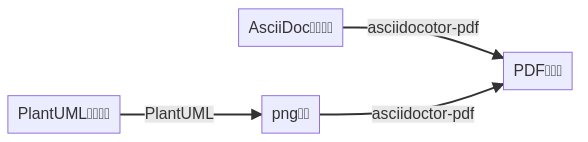
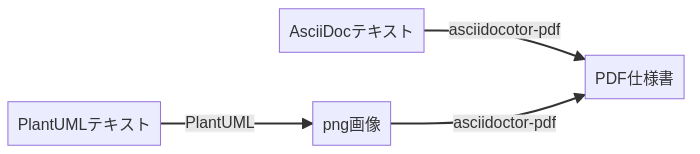
deploy: 76e21add7bd3434a00dd2d1d4cb63d3994903524

diff --git a/index.html b/index.html
@@ -462,7 +462,7 @@ body.book #toc,body.book #preamble,body.book h1.sect0,body.book .sect1>h2{page-b
 </div>
 <div class="imageblock">
 <div class="content">
-<img src="./images/diag-12df20a125ca961f6991ce59ac2e5659.png" alt="Diagram" width="588" height="142">
+<img src="./images/diag-12df20a125ca961f6991ce59ac2e5659.png" alt="Diagram" width="700" height="154">
 </div>
 <div class="title">Figure 1. mermaidの例</div>
 </div>
@@ -480,7 +480,7 @@ body.book #toc,body.book #preamble,body.book h1.sect0,body.book .sect1>h2{page-b
 <div id="footer">
 <div id="footer-text">
 Version 1.0<br>
-Last updated 2022-09-16 06:47:34 UTC
+Last updated 2022-09-16 07:19:41 UTC
 </div>
 </div>
 </body>
